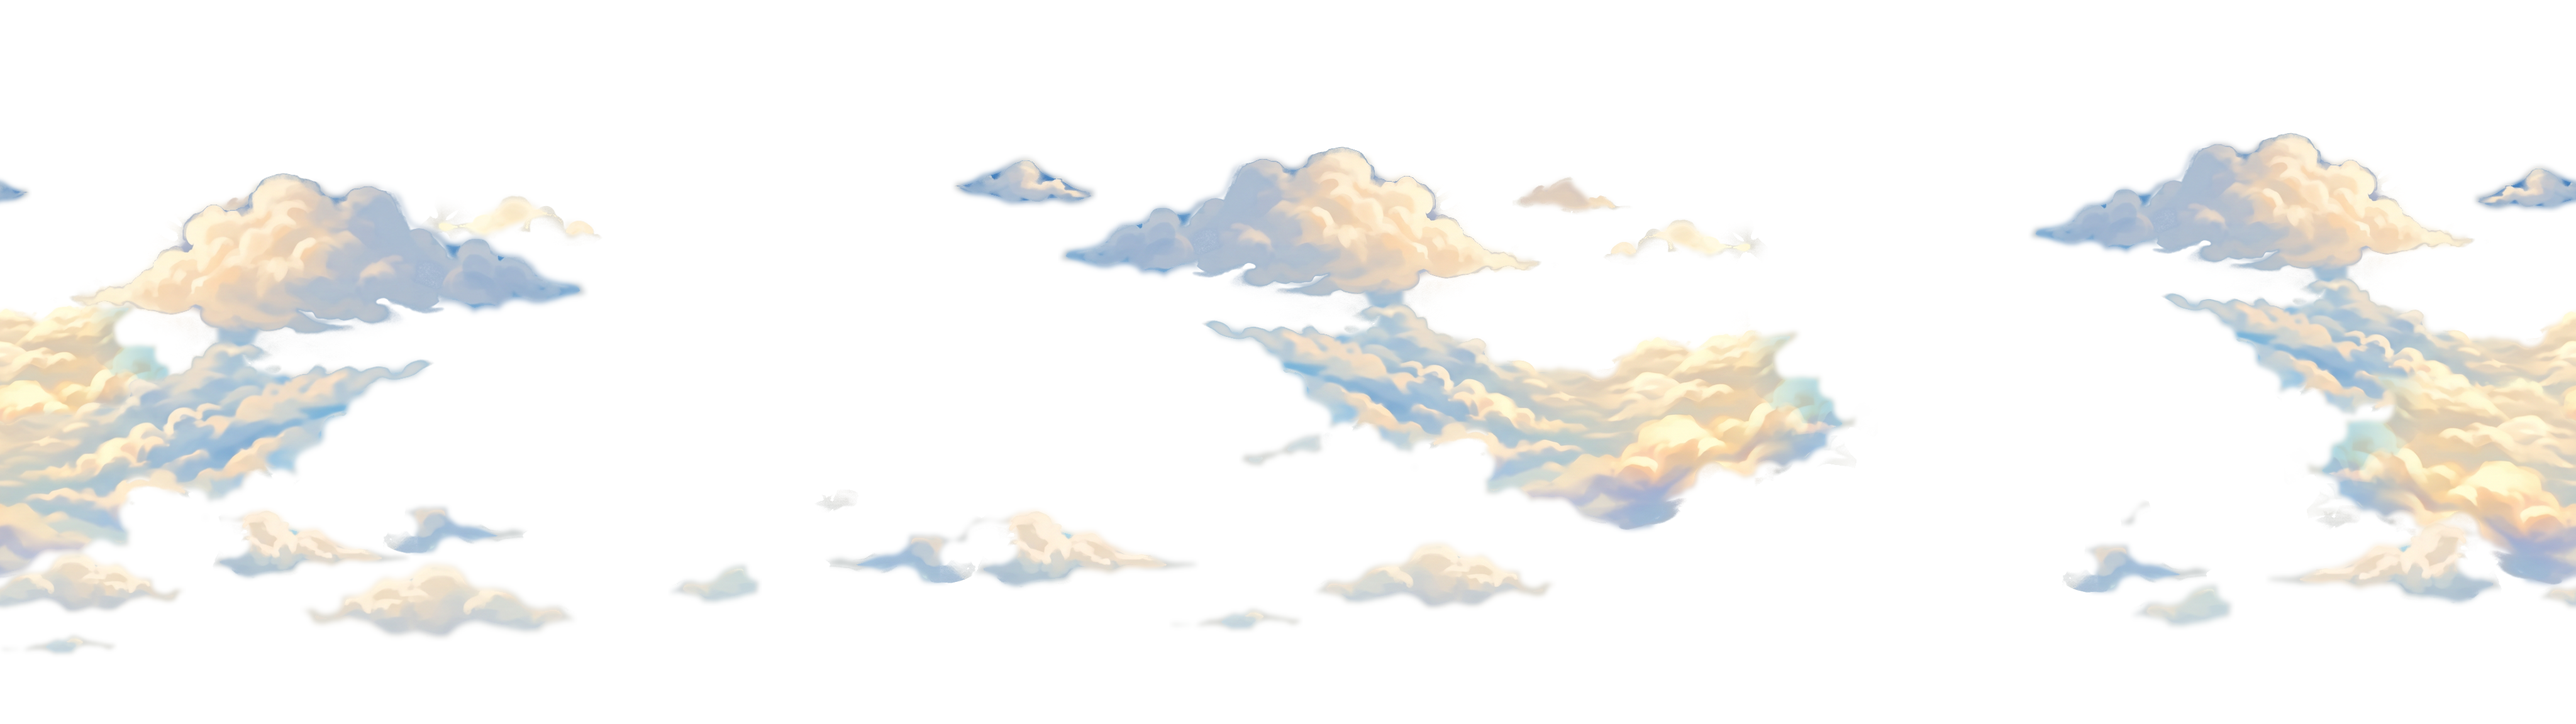
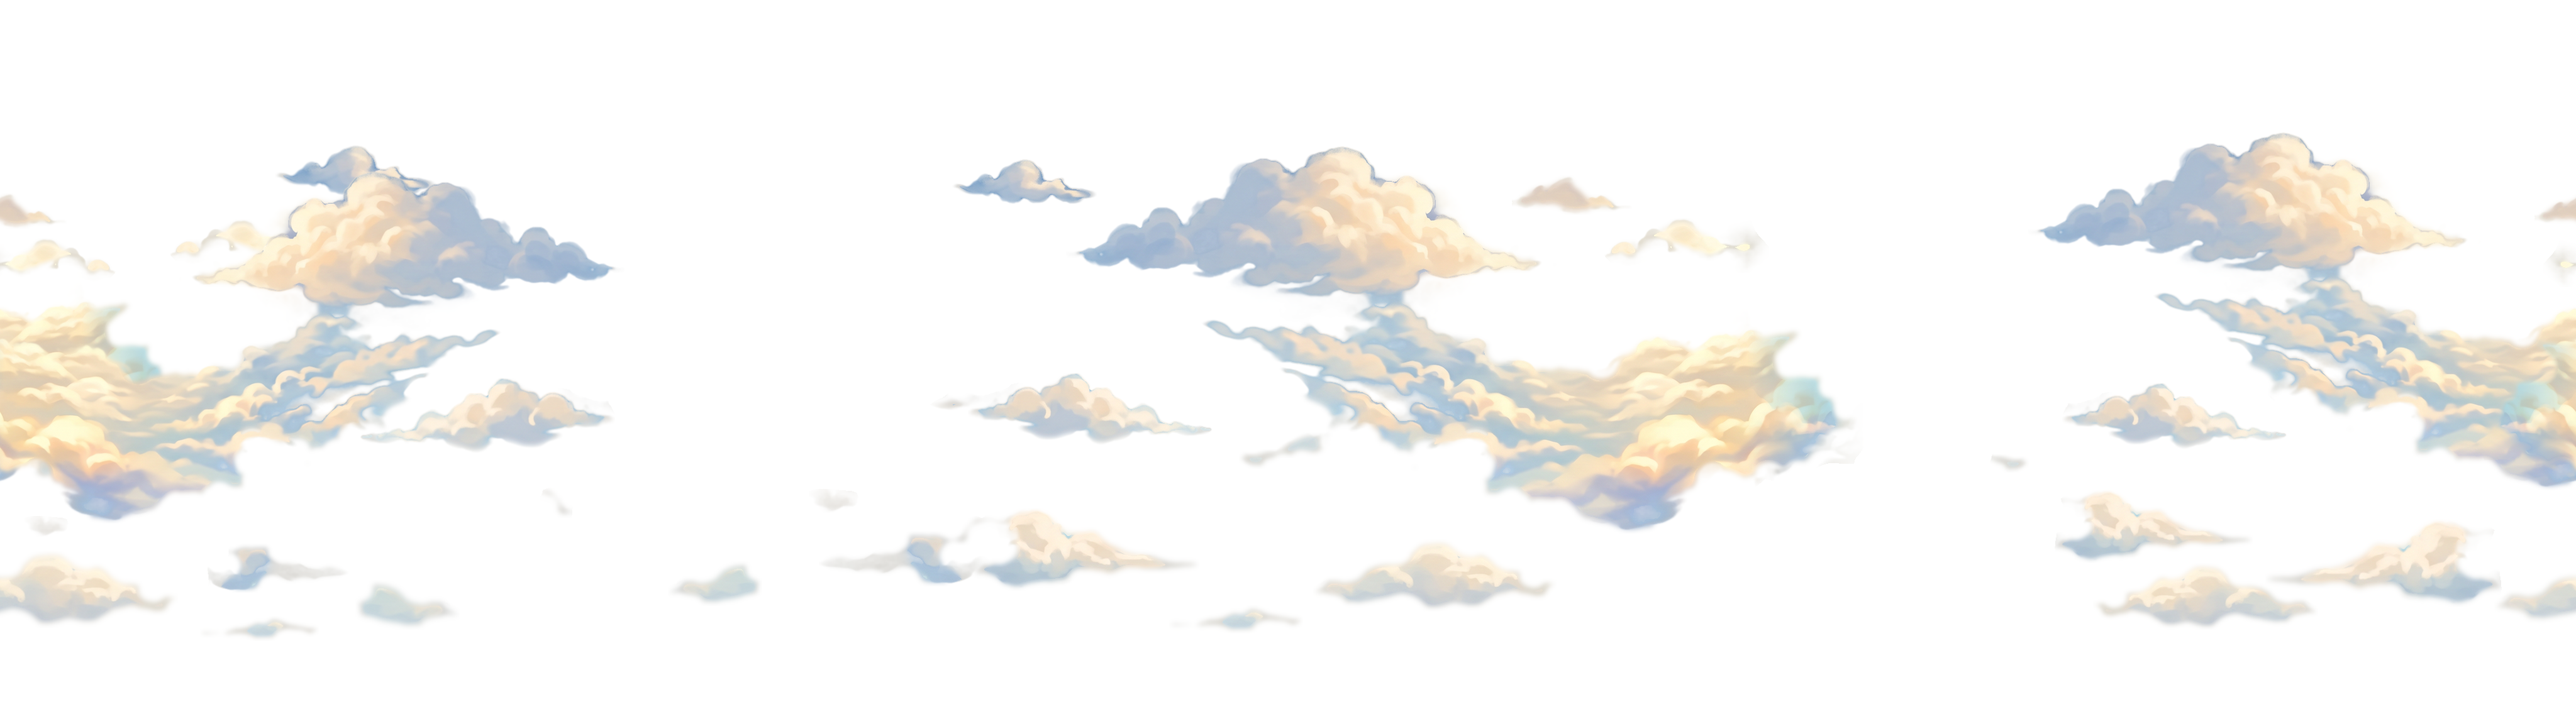
Paradise sky: drifting clouds without sky wedges or grainy rims
The high clouds were lifted out of the painted sky with the painting's own
blue still in them wherever it showed between two heads of cloud: the
matte took everything deep in a cloud as cloud. Drifting over the clear
sky, those bits of the old sky showed as dark wedges, and the brushwork
made the rims grainy. sky_split.py now leaves the sky-blue gaps clear and
settles the rim (a 5 px median, a slight blur); the clear sky is as it was.

diff --git a/tools/ai_art/sky_split.py b/tools/ai_art/sky_split.py
@@ -134,7 +134,13 @@ def matte(rgb: np.ndarray, sky: np.ndarray, broad: np.ndarray, tight: np.ndarray
     alpha *= blur(cv2.dilate(broad, np.ones((25, 25), np.uint8)).astype(np.float32), 8)
     alpha *= 1.0 - smoothstep(0.16, 0.3, blue)
     deep = cv2.erode(tight, round_kernel(31)).astype(np.float32)
-    alpha = np.maximum(alpha, blur(deep, 4))
+    # Deep in a cloud is cloud, except where the painting shows the sky through it, between two
+    # heads: kept, that blue drifts with the cloud over the clear sky and shows as a dark wedge.
+    through = smoothstep(0.16, 0.3, blue) * (1.0 - smoothstep(0.1, 0.2, paler))
+    alpha = np.maximum(alpha, blur(deep, 4) * (1.0 - through))
+    # The brushwork makes the matte grainy along a rim: settle it, keeping the rim's shape.
+    alpha = cv2.medianBlur((np.clip(alpha, 0.0, 1.0) * 255.0 + 0.5).astype(np.uint8), 5).astype(np.float32) / 255.0
+    alpha = blur(alpha, 0.8)
     a = alpha[..., None]
     colour = np.clip((rgb - (1.0 - a) * sky) / np.maximum(a, 0.04), 0.0, 1.0)
     # A rim takes the colour of the cloud inside it. Left as solved it would carry the blue of
